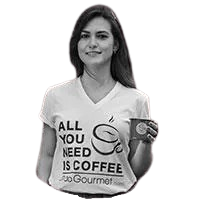
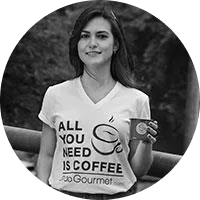
Ajustes Tela Sobre Nós

diff --git a/src/pages/AboutUs/index.js b/src/pages/AboutUs/index.js
@@ -2,10 +2,28 @@ import React from 'react';
 import * as C from './styles';
 import TextBlock from '../../components/TextBlock';
 import bannerImage from './images/banner.png';
+import avatar1 from './images/avatar.png';
+import avatar2 from './images/avatar.png';
+import avatar3 from './images/avatar.png';
+import avatar4 from './images/avatar.png';
+import avatar5 from './images/avatar.png';
+import avatar6 from './images/avatar.png';
 
 const AboutUs = () => {
-  const textContent1 = "Sempre gostamos muito de café – ele esteve presente em nossas manhãs desde sempre – e temos muitas boas lembranças associadas à essa querida bebida. Eu, Boris, me lembro do copo americano sujo de café que meu pai sempre deixava em cima da pia de manhã. Eu, Renata, lembro da fornada de pão quentinho e do cafezinho bem docinho que minha vó fazia nas tardes de domingo.";
-  const textContent2 = "Mesmo tendo essa intimidade com o café, foi apenas quando conhecemos o comércio do grão verde, em sacas, que descobrimos que os cafés especiais são, em sua maioria, destinados ao mercado externo. Começamos então a provar esses grãos. Descobrimos um novo café, não sabíamos que era tão bom! Não imaginávamos ser possível toma-lo sem açúcar, apreciar suas características sensoriais e não torcer o nariz com o amargor. Aprendemos que, assim como o vinho, o sabor do café é diferente dependendo da região produtora, da safra e do manejo. Um mundo novo se abriu!";
+  const mainText = "Sempre gostamos muito de café – ele esteve presente em nossas manhãs desde sempre – e temos muitas boas lembranças associadas à essa querida bebida. Eu, Boris, me lembro do copo americano sujo de café que meu pai sempre deixava em cima da pia de manhã. Eu, Renata, lembro da fornada de pão quentinho e do cafezinho bem docinho que minha vó fazia nas tardes de domingo.";
+  const sideText = "Mesmo tendo essa intimidade com o café, foi apenas quando conhecemos o comércio do grão verde, em sacas, que descobrimos que os cafés especiais são, em sua maioria, destinados ao mercado externo. Começamos então a provar esses grãos. Descobrimos um novo café, não sabíamos que era tão bom! Não imaginávamos ser possível toma-lo sem açúcar, apreciar suas características sensoriais e não torcer o nariz com o amargor. Aprendemos que, assim como o vinho, o sabor do café é diferente dependendo da região produtora, da safra e do manejo. Um mundo novo se abriu!";
+  const founder1 = "Pedro";
+  const founder2 = "Cyro";
+  const founder3 = "Luan";
+  const founder4 = "Yago";
+  const founder5 = "Lohan";
+  const founder6 = "Everton";
+  const description1 = "“Ama o café da manhã. Tem senso de humor, “ousadia e alegria”. O coração é o que guia. Um pouco avoada, mas pé no chão. Melhor com números do que palavras, mas tenta. Mestra em engenharia de minas, foi arrebatada pela ideia de empreender com café especial, até então uma paixonite. Agora que foi picada pelo bichinho do café, não pensa em outra coisa…”";
+  const description2 = "“Ama o café da manhã. Tem senso de humor, “ousadia e alegria”. O coração é o que guia. Um pouco avoada, mas pé no chão. Melhor com números do que palavras, mas tenta. Mestra em engenharia de minas, foi arrebatada pela ideia de empreender com café especial, até então uma paixonite. Agora que foi picada pelo bichinho do café, não pensa em outra coisa…”";
+  const description3 = "“Ama o café da manhã. Tem senso de humor, “ousadia e alegria”. O coração é o que guia. Um pouco avoada, mas pé no chão. Melhor com números do que palavras, mas tenta. Mestra em engenharia de minas, foi arrebatada pela ideia de empreender com café especial, até então uma paixonite. Agora que foi picada pelo bichinho do café, não pensa em outra coisa…”";
+  const description4 = "“Ama o café da manhã. Tem senso de humor, “ousadia e alegria”. O coração é o que guia. Um pouco avoada, mas pé no chão. Melhor com números do que palavras, mas tenta. Mestra em engenharia de minas, foi arrebatada pela ideia de empreender com café especial, até então uma paixonite. Agora que foi picada pelo bichinho do café, não pensa em outra coisa…”";
+  const description5 = "“Ama o café da manhã. Tem senso de humor, “ousadia e alegria”. O coração é o que guia. Um pouco avoada, mas pé no chão. Melhor com números do que palavras, mas tenta. Mestra em engenharia de minas, foi arrebatada pela ideia de empreender com café especial, até então uma paixonite. Agora que foi picada pelo bichinho do café, não pensa em outra coisa…”";
+  const description6 = "“Ama o café da manhã. Tem senso de humor, “ousadia e alegria”. O coração é o que guia. Um pouco avoada, mas pé no chão. Melhor com números do que palavras, mas tenta. Mestra em engenharia de minas, foi arrebatada pela ideia de empreender com café especial, até então uma paixonite. Agora que foi picada pelo bichinho do café, não pensa em outra coisa…”";
 
   return (
     <C.Container>
@@ -16,55 +34,57 @@ const AboutUs = () => {
         <C.LeftTextBlockContainer>
           <TextBlock>
             <br></br>
-            {textContent1}
+            {mainText}
             <br></br>
             <br></br>
             <h2>Fundadores do MyCoffe</h2><br></br>
-            <div style={{ display: 'flex', flexDirection: 'row' }}>
-              <div style={{ marginRight: '20px' }}>
-                <img src="./images/avatar.png" alt="Perfil 1" />
-                <p>Nome do Fundador 1</p>
-                <p>Breve descrição 1</p>
-              </div>
-              <div style={{ marginRight: '20px' }}>
-                <img src="./images/avatar.png" alt="Perfil 2" />
-                <p>Nome do Fundador 2</p>
-                <p>Breve descrição 2</p>
-              </div>
-              <div>
-                <img src="./images/avatar.png" alt="Perfil 3" />
-                <p>Nome do Fundador 3</p>
-                <p>Breve descrição 3</p>
-              </div>
-            </div>
+            <C.FounderContainer>
+            <C.Founder>
+              <C.FounderImage src={avatar1} alt="Perfil 1" />
+              <p>{founder1}</p>
+              <br></br>
+              <p>{description1}</p>
+            </C.Founder>
+            <C.Founder>
+              <C.FounderImage src={avatar2} alt="Perfil 2" />
+              <p>{founder2}</p>
+              <br></br>
+              <p>{description2}</p>
+            </C.Founder>
+            <C.Founder>
+              <C.FounderImage src={avatar3} alt="Perfil 3" />
+              <p>{founder3}</p>
+              <br></br>
+              <p>{description3}</p>
+            </C.Founder>
+          </C.FounderContainer>
+          <br></br>
+          <C.FounderContainer>
+            <C.Founder>
+              <C.FounderImage src={avatar4} alt="Perfil 4" />
+              <p>{founder4}</p>
+              <br></br>
+              <p>{description4}</p>
+            </C.Founder>
+            <C.Founder>
+              <C.FounderImage src={avatar5} alt="Perfil 5" />
+              <p>{founder5}</p>
+              <br></br>
+              <p>{description5}</p>
+            </C.Founder>
+            <C.Founder>
+              <C.FounderImage src={avatar6} alt="Perfil 6" />
+              <p>{founder6}</p>
+              <br></br>
+              <p>{description6}</p>
+            </C.Founder>
+          </C.FounderContainer>
           </TextBlock>
-          <C.LeftTextBlockContainer>
-          <TextBlock>
-          <div style={{ display: 'flex', flexDirection: 'row' }}>
-              <div style={{ marginRight: '20px' }}>
-                <img src="./images/avatar.png" alt="Perfil 1" />
-                <p>Nome do Fundador 1</p>
-                <p>Breve descrição 1</p>
-              </div>
-              <div style={{ marginRight: '20px' }}>
-                <img src="./images/avatar.png" alt="Perfil 2" />
-                <p>Nome do Fundador 2</p>
-                <p>Breve descrição 2</p>
-              </div>
-              <div>
-                <img src="./images/avatar.png" alt="Perfil 3" />
-                <p>Nome do Fundador 3</p>
-                <p>Breve descrição 3</p>
-              </div>
-            </div>
-          </TextBlock>
-        </C.LeftTextBlockContainer>
-            
         </C.LeftTextBlockContainer>
         <C.RightTextBlockContainer>
           <TextBlock>
             <br></br>
-            {textContent2}
+            {sideText}
           </TextBlock>
         </C.RightTextBlockContainer>
       </C.TextsContainer>

diff --git a/src/pages/AboutUs/styles.js b/src/pages/AboutUs/styles.js
@@ -37,3 +37,25 @@ export const RightTextBlockContainer = styled.div`
   margin-left: 20px;
   font-size: 22px
 `;
+
+export const FounderContainer = styled.div`
+  display: flex;
+  justify-content: space-between;
+  width: 100%;
+  
+`;
+
+export const Founder = styled.div`
+  flex: 1;
+  font-size: 16px;
+  padding: 15px;
+`;
+
+export const FounderImage = styled.img`
+  width: 150px;
+  height: 150px;
+  font-weight: 800;
+  border-radius: 50%;
+  margin-bottom: 10px;
+  margin: 0 20px;
+`;
